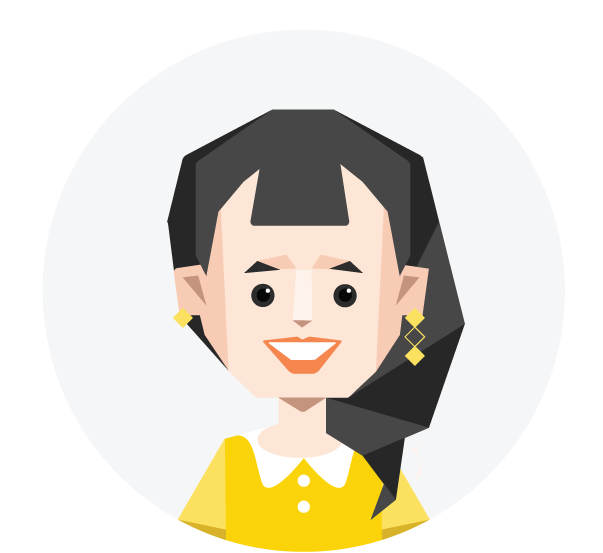
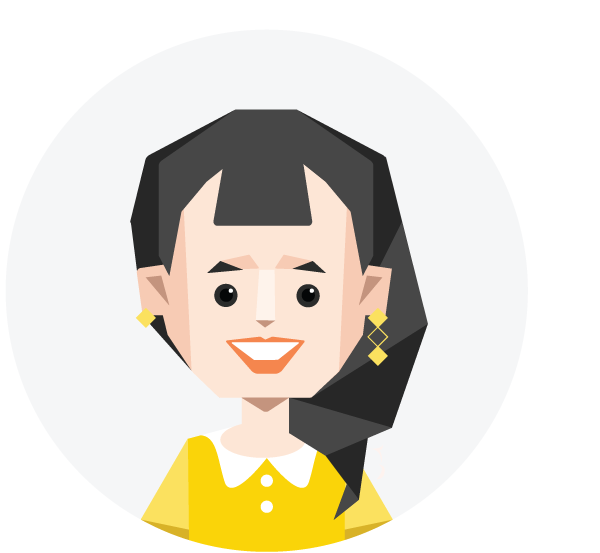
Actualizada distribucion de imagen de maria

Changed region(s): [[0.21, 0.1844, 0.78, 1.0]]

diff --git a/src/stylesheets/components/_member.scss b/src/stylesheets/components/_member.scss
@@ -15,17 +15,13 @@
 }
 
 .member--maria {
-    &:hover {
-        img {
-            left: -2px;
-        }
+    img {
+        left: -2px;
     }
 
     @media(min-width: $screen-lg) {
-        &:hover {
-            img {
-                left: 13px;
-            }
+        img {
+            left: 13px;
         }
     }
 }
